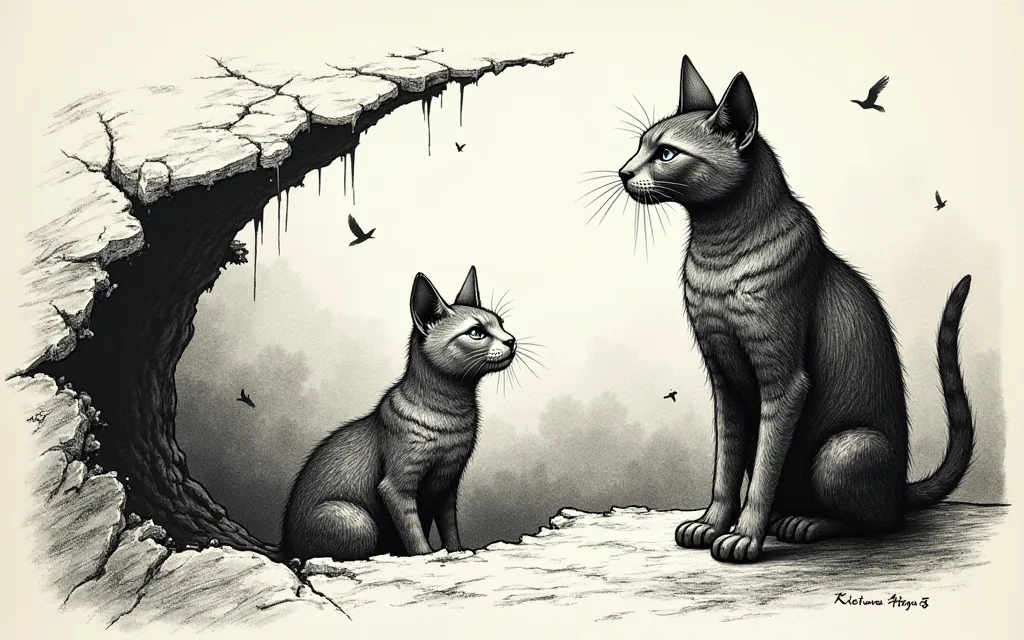
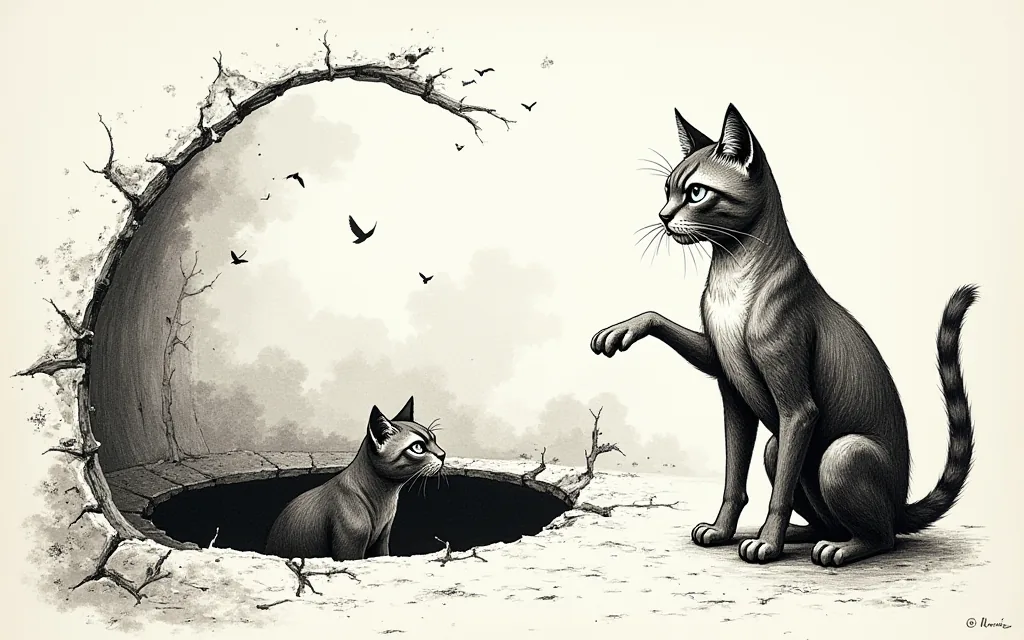
story-room: style may describe ink, never light
The previous commit's "tonal anchor" (heavy blacks, deep shadow, dark
inked plate) put the room back. Lighting words imply dim interiors, dim
interiors imply stone, stone implies archways -- and the
procession-of-lights scene rendered as a robed cat in a dark hall again,
which is the exact complaint the commit before it was fixing.

I shipped that without looking at the output. The tests passed and the
publish passed, so I called it done. Checking the pipeline is not
checking the product; that is the second time today.

- STYLE is now ink density only: etching, crosshatching, fine linework,
  strong black ink, monochrome. No light, no setting, no costume, no
  camera. The comment records both failures so neither is re-added.
- 000-the-fourth-bell is re-rendered with an explicit --moment. Its
  landing beat is abstract state ("you do not want to be measured"), so
  the extractor had no picture to draw and produced generic cats on a
  blank ground -- on the entry scene, the first image every reader sees.
  The scene's real visual turn was three paragraphs up: "A fishmonger
  freezes with his knife halfway through a silverbelly."

Known limits, not fixed here: scenes whose landing beat is abstract state
still need an explicit moment (the extractor takes the LAST prose block,
not the most VISUAL one), the world sometimes drifts European-Victorian
rather than Faelspire, and no character is consistent between plates.
[…]

diff --git a/scripts/render_scene_image.py b/scripts/render_scene_image.py
@@ -46,13 +46,23 @@ CKPT = "flux1-dev-fp8.safetensors"
 # rendered as monks in a cloister.
 #
 # The moment decides the picture. Style only says how it is drawn.
-# Tone IS style and is safe to enforce; setting and camera are not. Without a
-# tonal anchor the plates drift to light, airy pencil sketches on white and
-# stop looking like one book.
+# Style may describe INK, never light, setting, costume or camera.
+#
+# Two failures are baked into this constant's history. First it carried the
+# setting ("iron doors, archive racks") and the camera ("seen from behind"),
+# and every scene rendered as the same room. Removing that fixed it. Then a
+# "tonal" anchor -- heavy blacks, DEEP SHADOW, dark inked plate -- put the
+# room back: lighting words imply dim interiors, dim interiors imply stone,
+# stone implies archways, and the procession-of-lights scene became a robed
+# cat in a hall again.
+#
+# So: density of ink is safe to enforce. Darkness of the depicted world is
+# not, because it is a fact about the scene, and the scene is the moment's
+# to decide.
 STYLE = (
     "Engraved etching illustration, dense crosshatching, fine ink linework, "
-    "monochrome, no colour. Heavy blacks, high contrast, deep shadow, dark "
-    "inked plate. The characters are anthropomorphic cats."
+    "strong black ink, monochrome, no colour. "
+    "The characters are anthropomorphic cats."
 )
 
 CHOICE = re.compile(r"^###\s*\[.*?\]\(.*?\.md\)", re.M)
